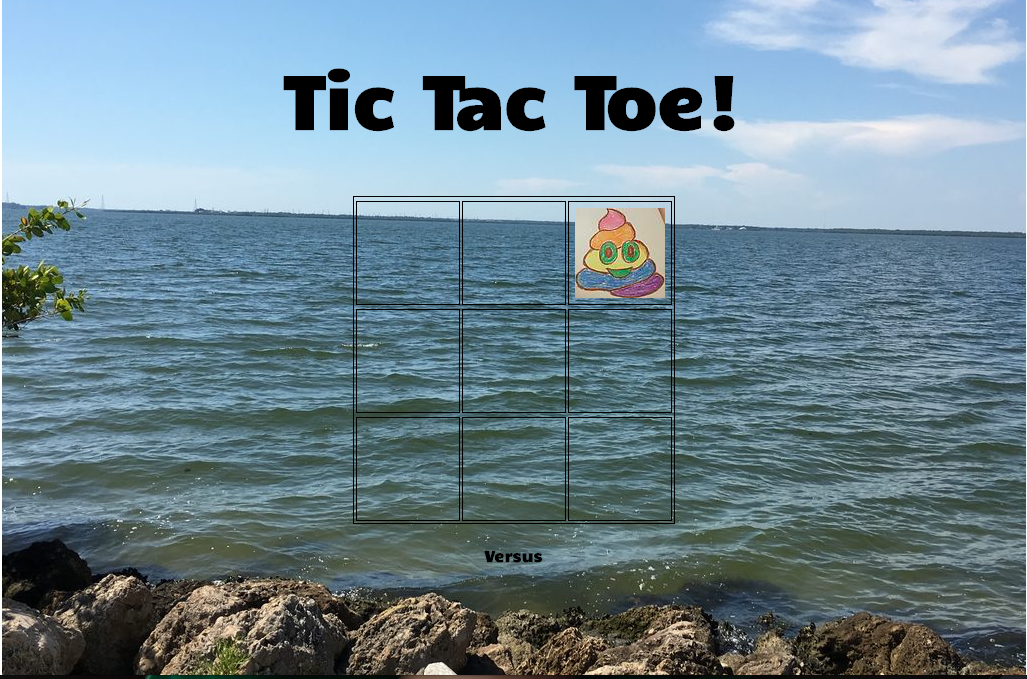
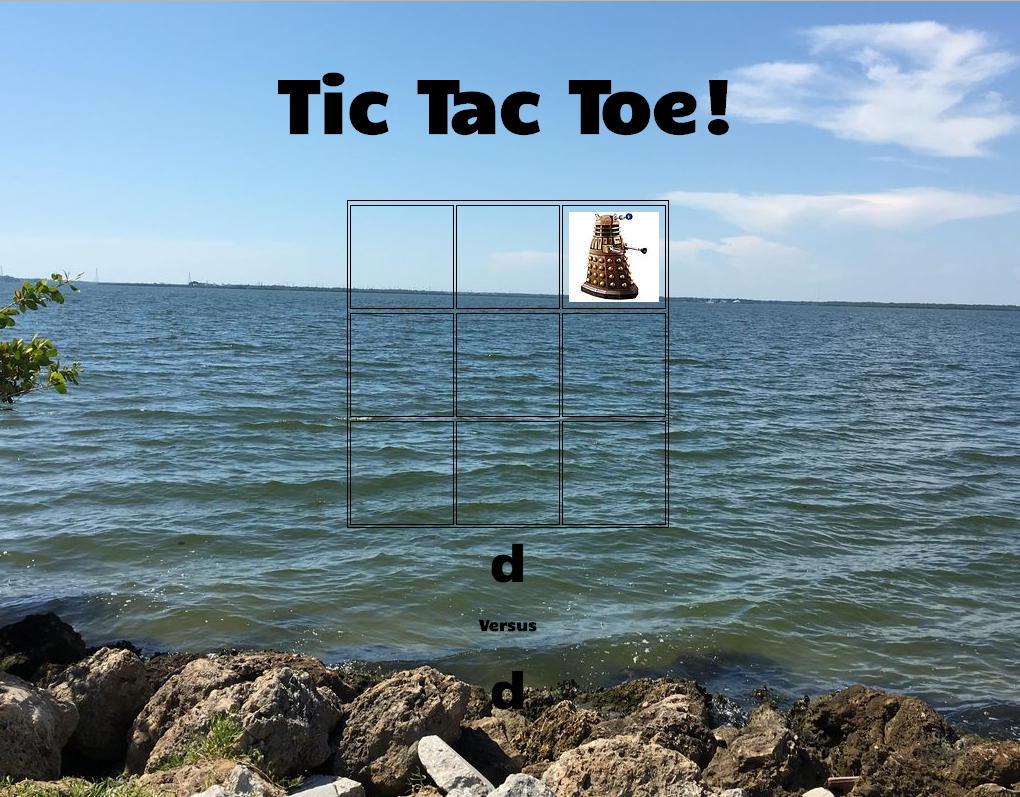
changed picture

diff --git a/projects.html b/projects.html
@@ -42,7 +42,7 @@ $('.carousel').carousel('set', 4);
   </script>
 <div class="container">
   	<h4 class="description">Tic Tac Toe</h4>
-  	<p class="description">Tic Tac Toe was one of my first projects. I made it with JavaScript, HTML, and CSS. I added some personal touches such a background of picture of Tampa Bay taken from the Courtney Campbell Causway. The hover image is something I drew in class and decided to incorporate it into my project.</p>
+  	<p class="description">Tic Tac Toe was one of my first projects. I made it with JavaScript, HTML, and CSS. I added some personal touches such a background of picture of Tampa Bay taken from the Courtney Campbell Causway. The hover image is of a Dalek because I am a Doctor Who fan.</p>
   	<!-- <h4 class="description">Box It!</h4> 
   	<p class="description">Box It was a group project and my very first Ruby on Rails project. This app is designed to assist people with keeping track of their boxes and possessions when moving. There is one known bug with this project and it is that the edit and delete buttons for the items do not work. This project is still a work in progress and will be fixed shortly.</p>  -->
   	<h4 class="description">Recipe Saver</h4>
